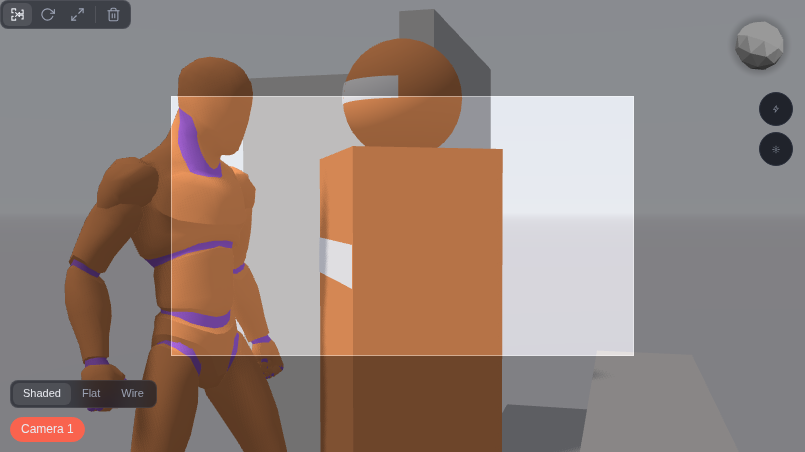
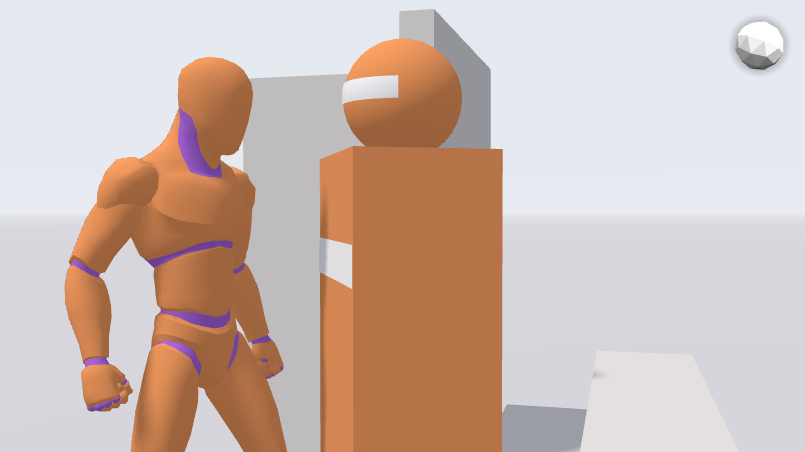
r12 step 1: pixel-oracle m1/m5 RESOLVED — the r11 'lens tonemap divergence' was a CAPTURE ARTIFACT (Chrome compositor present freezes for the WebGL canvas once the cameras view activates under headless SwiftShader: frame counter increments, forced-render backbuffer holds the correct lens image, page

diff --git a/scripts/pixel_oracle/lens_forensics.py b/scripts/pixel_oracle/lens_forensics.py
@@ -1,0 +1,93 @@
+#!/usr/bin/env python3
+"""lens_forensics.py — discriminate the m1/m5 lens divergence hypotheses from pixels.
+
+Hypotheses:
+  H1 DOM veil / additive overlay:  live = a*ours + b, a<1, b>0
+  H2 exposure multiplier:          live = a*ours, a~1.39, b~0
+  H3 tonemap/gamma curve:          live = ours^g (per-channel power law)
+  H4 spatial overlay (rect UI):    ratio modes cluster in rectangular bboxes
+"""
+import numpy as np
+from PIL import Image
+import os, sys
+
+HERE = os.path.dirname(os.path.abspath(__file__))
+
+def load(p):
+    return np.asarray(Image.open(p).convert("RGB"), dtype=np.float64)
+
+def fit_linear(ours, live):
+    # least squares over all pixels(+channels): live = a*ours + b
+    x = ours.reshape(-1); y = live.reshape(-1)
+    a, b = np.polyfit(x.ravel(), y.ravel(), 1)
+    resid = y.ravel() - (a * x.ravel() + b)
+    return a, b, np.abs(resid).mean()
+
+def fit_power(ours, live):
+    # live = ours^g  =>  log(live) = g*log(ours), skip saturated/dark
+    m = (ours > 8) & (ours < 250) & (live > 8) & (live < 250)
+    if m.sum() < 1000: return None, None
+    g = np.polyfit(np.log(ours[m]), np.log(live[m]), 1)[0]
+    pred = np.clip(ours, 0, 255) ** g
+    return g, np.abs(pred - np.clip(live, 0, 255))[m].mean()
+
+def lum(img):
+    return img.mean(axis=2)
+
+def ratio_modes(ours, live):
+    lo = lum(ours); ll = lum(live)
+    m = lo > 20  # avoid divide noise
+    r = np.zeros_like(lo); r[m] = ll[m] / lo[m]
+    return r, m
+
+def report(case):
+    live = load(os.path.join(HERE, "golden", f"{case}_live.png"))
+    ours = load(os.path.join(HERE, "out", f"ours_{case}.png"))
+    print(f"\n===== {case}  live{live.shape[1]}x{live.shape[0]} ours{ours.shape[1]}x{ours.shape[0]} =====")
+    h = min(live.shape[0], ours.shape[0]); w = min(live.shape[1], ours.shape[1])
+    live = live[:h, :w]; ours = ours[:h, :w]
+    lo, ll = lum(ours), lum(live)
+    print(f"ours  lum: min {lo.min():.0f} mean {lo.mean():.1f} max {lo.max():.0f}  px<30: {(lo<30).mean()*100:.2f}%")
+    print(f"live  lum: min {ll.min():.0f} mean {ll.mean():.1f} max {ll.max():.0f}  px<30: {(ll<30).mean()*100:.2f}%  sat: {(ll>253).mean()*100:.2f}%")
+    a, b, res = fit_linear(ours, live)
+    print(f"H1/H2 linear fit: live = {a:.4f}*ours + {b:.2f}   mean|resid| {res:.2f}")
+    g, gres = fit_power(ours, live)
+    if g: print(f"H3 power fit: live = ours^{g:.4f}   mean|resid| {gres:.2f}")
+
+    r, m = ratio_modes(ours, live)
+    if not m.any(): return
+    # histogram of ratio
+    hist, edges = np.histogram(r[m], bins=32, range=(0.5, 2.5))
+    top = np.argsort(hist)[::-1][:6]
+    print("ratio histogram peaks:")
+    for i in top:
+        if hist[i] == 0: continue
+        print(f"  r {edges[i]:.2f}-{edges[i+1]:.2f}: {hist[i]} px ({hist[i]/m.sum()*100:.1f}%)")
+    # spatial map of the two hypothesized modes
+    for name, sel in [("r~1.0", (r > 0.92) & (r < 1.10) & m),
+                      ("r~1.67", (r > 1.55) & (r < 1.80) & m),
+                      ("r>2.0", (r > 2.0) & m)]:
+        if sel.sum() < 100:
+            print(f"  mode {name}: {sel.sum()} px (skip)"); continue
+        ys, xs = np.nonzero(sel)
+        x0, x1, y0, y1 = xs.min(), xs.max(), ys.min(), ys.max()
+        # detect rectangularity: fill ratio of the bbox
+        fill = sel[y0:y1+1, x0:x1+1].mean()
+        print(f"  mode {name}: {sel.sum()} px bbox x{x0}-{x1} y{y0}-{y1} fill {fill*100:.0f}%  mean-ours-lum {lo[sel].mean():.0f}")
+    # column/row profiles of the ratio (detect veil bands)
+    rm = np.where(m, r, np.nan)
+    with np.errstate(invalid="ignore"):
+        colmean = np.nanmean(rm, axis=0)
+        rowmean = np.nanmean(rm, axis=1)
+    colmean = np.nan_to_num(colmean); rowmean = np.nan_to_num(rowmean)
+    print(f"  ratio col profile: left-edge {colmean[:40].mean():.2f} mid {colmean[w//2-40:w//2+40].mean():.2f} right-edge {colmean[-40:].mean():.2f}")
+    print(f"  ratio row profile: top {rowmean[:40].mean():.2f} mid {rowmean[h//2-40:h//2+40].mean():.2f} bottom {rowmean[-40:].mean():.2f}")
+
+    # channel-wise: a pure luma op preserves channel ratios; a tonemap may not
+    for ch, nm in enumerate("RGB"):
+        ac, bc, _ = fit_linear(ours[:, :, ch], live[:, :, ch])
+        print(f"  ch {nm}: a {ac:.4f} b {bc:.2f}")
+
+if __name__ == "__main__":
+    for case in (sys.argv[1:] or ["m1_lens", "m5_cam_path"]):
+        report(case)

diff --git a/scripts/pixel_oracle/lens_smooth.py b/scripts/pixel_oracle/lens_smooth.py
@@ -1,0 +1,67 @@
+#!/usr/bin/env python3
+"""lens_smooth.py — is live-ours a smooth screen-space field (overlay) or content noise (tonemap)?"""
+import numpy as np
+from PIL import Image
+import os
+
+HERE = os.path.dirname(os.path.abspath(__file__))
+
+def load(p):
+    return np.asarray(Image.open(p).convert("RGB"), dtype=np.float64)
+
+def smoothness(D, tag):
+    # high-frequency energy: |D - blur(D)| vs |D - mean|
+    h, w = D.shape
+    # 5x5 box blur
+    k = 2
+    P = np.pad(D, k, mode="edge")
+    blur = np.zeros_like(D)
+    for dy in range(-k, k + 1):
+        for dx in range(-k, k + 1):
+            blur += P[k + dy : k + dy + h, k + dx : k + dx + w]
+    blur /= 25
+    hf = np.abs(D - blur).mean()
+    tot = np.abs(D - D.mean()).mean()
+    print(f"  {tag}: mean {D.mean():.1f}  hf-energy {hf:.1f}  total-var {tot:.1f}  smoothness {1-hf/max(tot,1e-9):.2f}")
+    return 1 - hf / max(tot, 1e-9)
+
+def plane_fit(D, tag):
+    h, w = D.shape
+    yy, xx = np.mgrid[0:h, 0:w]
+    A = np.stack([xx.ravel()/w, yy.ravel()/h, (xx.ravel()/w)**2, (yy.ravel()/h)**2, xx.ravel()*yy.ravel()/(w*h), np.ones(h*w)], 1)
+    coef, *_ = np.linalg.lstsq(A, D.ravel(), rcond=None)
+    pred = (A @ coef).reshape(h, w)
+    resid = np.abs(D - pred).mean()
+    print(f"  {tag}: quadric coeffs x {coef[0]:.1f} y {coef[1]:.1f} x2 {coef[2]:.1f} y2 {coef[3]:.1f} xy {coef[4]:.1f} c {coef[5]:.1f}  resid {resid:.1f} (D mean {D.mean():.1f})")
+
+def grid_report(D, tag, n=6):
+    h, w = D.shape
+    print(f"  {tag} {n}x{n} grid of mean D:")
+    for gy in range(n):
+        row = []
+        for gx in range(n):
+            cell = D[gy*h//n:(gy+1)*h//n, gx*w//n:(gx+1)*w//n]
+            row.append(f"{cell.mean():6.0f}")
+        print("    " + " ".join(row))
+
+for case in ("m1_lens", "m5_cam_path"):
+    live = load(os.path.join(HERE, "golden", f"{case}_live.png"))
+    ours = load(os.path.join(HERE, "out", f"ours_{case}.png"))
+    h = min(live.shape[0], ours.shape[0]); w = min(live.shape[1], ours.shape[1])
+    live = live[:h, :w]; ours = ours[:h, :w]
+    D = live.mean(2) - ours.mean(2)
+    print(f"\n===== {case} =====")
+    smoothness(D, "D=live-ours")
+    plane_fit(D, "D quadric")
+    grid_report(D, "D")
+    # per-channel D grid for channel-dependence (white veil: equal; colored veil: not)
+    for ch, nm in enumerate("RGB"):
+        grid_report(live[:, :, ch] - ours[:, :, ch], f"D_{nm}", 3)
+    # save visualizations
+    dn = np.clip(D + 128, 0, 255).astype(np.uint8)
+    Image.fromarray(dn).save(os.path.join(HERE, "out", f"tmp_D_{case}.png"))
+    lo = ours.mean(2); ll = live.mean(2)
+    m = lo > 20
+    r = np.zeros_like(lo); r[m] = np.clip(ll[m] / lo[m] * 63.75, 0, 255)
+    Image.fromarray(r.astype(np.uint8)).save(os.path.join(HERE, "out", f"tmp_ratio_{case}.png"))
+print("\nwrote out/tmp_D_*.png + out/tmp_ratio_*.png (D shifted +128, ratio scaled 2->255)")

diff --git a/scripts/pixel_oracle/bb.py b/scripts/pixel_oracle/bb.py
@@ -1,0 +1,66 @@
+#!/usr/bin/env python3
+"""bb.py — backbuffer capture for the pixel-oracle harness.
+
+WHY: Chrome's compositor present path freezes for the WebGL canvas once the
+editor enters the through-the-lens (cameras) view under headless SwiftShader
+(reproduced r11 + r12: the page screenshot keeps returning the LAST PRE-
+LENS frame, byte-identical across sessions, while renderer.info.render.frame
+keeps incrementing and the forced-render backbuffer holds the correct lens
+image). DOM overlays still composite; the canvas texture does not update.
+
+The backbuffer is the ground truth the renderer actually draws. With
+preserveDrawingBuffer=false the buffer only survives within the JS task that
+rendered it, so capture = per eval: force app.renderFrame() → readPixels N
+rows → base64 → chunk out through ab.eval_js. The rest state is deterministic
+(seek-pinned poses, no autoplay), so consecutive forced renders are identical.
+
+API:
+  capture_png(session, path, w=805, h=452, rows_per_eval=24)  → exact PNG
+"""
+import base64
+import io
+import time
+
+import ab
+
+_ROWS_HDR = """(()=>{
+const a=window.__app;
+a.renderFrame();
+const gl=a.renderer.getContext();
+const w=gl.drawingBufferWidth,h=gl.drawingBufferHeight;
+const row=new Uint8Array(w*4);
+const out=[];
+const y0=%d, y1=%d;
+for(let y=y0;y<y1;y++){
+  gl.readPixels(0,h-1-y,w,1,gl.RGBA,gl.UNSIGNED_BYTE,row);
+  let s='';
+  for(let i=0;i<w*4;i+=4){ s+=String.fromCharCode(row[i],row[i+1],row[i+2]); }
+  out.push(btoa(s));
+}
+return out.join('|');
+})()"""
+
+
+def _b64_decode_rows(b64str):
+    raw = base64.b64decode(b64str)
+    return raw  # rgb bytes (3 per px)
+
+
+def capture_png(session, path, w=805, h=452, rows_per_eval=24, timeout=120):
+    """Force-render + read the backbuffer top-to-bottom, save an exact PNG."""
+    from PIL import Image
+    rows = []
+    t0 = time.time()
+    for y0 in range(0, h, rows_per_eval):
+        y1 = min(y0 + rows_per_eval, h)
+        r = ab.eval_js(session, _ROWS_HDR % (y0, y1), timeout=timeout)
+        parts = str(r).split("|")
+        for b64 in parts:
+            rows.append(_b64_decode_rows(b64))
+    buf = b"".join(rows)
+    expect = w * h * 3
+    if len(buf) != expect:
+        raise RuntimeError(f"backbuffer capture size {len(buf)} != {expect}")
+    img = Image.frombytes("RGB", (w, h), buf)
+    img.save(path)
+    return time.time() - t0

diff --git a/scripts/pixel_oracle/ours.py b/scripts/pixel_oracle/ours.py
@@ -22,6 +22,7 @@ import time
 from PIL import Image
 
 import ab
+import bb
 
 OURS_BASE = "http://localhost:3000/editor/index.html"
 # verified geometry (r11): scene-view chrome = 264px right + 88 top + 176 bottom
@@ -105,14 +106,20 @@ class OursSession:
                 raise OursError(f"cameras view failed: {r}")
             time.sleep(1.5)
         time.sleep(1.2)
-        # --- canvas rect assert + screenshot + crop
+        # --- canvas rect assert + capture
         x, y, w, h = self.canvas_rect()
         if (x, y, w, h) != want:
             raise OursError(f"canvas rect {(x, y, w, h)} != expected {want} "
                             f"(viewport {viewport})")
+        # r12: the compositor present path FREEZES for the WebGL canvas once
+        # the cameras (lens) view activates under headless SwiftShader — the
+        # page screenshot keeps returning the last pre-lens frame (reproduced
+        # r11 + r12; the r11 m1/m5 "divergence" was this artifact). Capture the
+        # canvas from the BACKBUFFER instead (force renderFrame + readPixels
+        # per chunk; deterministic at rest). Full screenshot kept for debug.
         full = str(out_path).replace(".png", "_full.png")
         ab.screenshot(self.session, full)
-        Image.open(full).convert("RGB").crop((x, y, x + w, y + h)).save(out_path)
+        bb.capture_png(self.session, out_path, w=w, h=h)
         return out_path
 
     def close(self):

diff --git a/scripts/pixel_oracle/README.md b/scripts/pixel_oracle/README.md
@@ -59,17 +59,23 @@ python3 scripts/pixel_oracle/fixtures.py --sync              # regenerate varian
 | case | fixture | t | view | live scene | status |
 |---|---|---|---|---|---|
 | m2_default | `samples/live_oracle_r11_base.json` | 2.51 | scene | base Scene 1 | **GREEN 99.30 / 0.354** |
-| m1_lens | base | 5.0 (end-of-orbit) | cameras (lens) | base | **GOLDEN r11-3a, FAIL 56.27/32.72** — lens-view divergence (see gotchas) |
+| m1_lens | base | 5.0 (end-of-orbit) | cameras (lens) | base | **GREEN r12 99.12 %≤8 / mean 0.410** (r11 FAIL 56.27/32.72 was the capture artifact — see gotcha) |
 | m3_light_golden | `oracle_r11/light_golden.json` | 2.51 | scene | oracle row PATCHed | **GREEN r11-3a 98.72 %≤8 / mean 0.996** (marginal vs 1.0) |
 | m3_light_dusk | `oracle_r11/light_dusk.json` | 2.51 | scene | oracle row PATCHed | **r11-3b FAIL (marginal) 97.18 %≤8 / mean 1.630** — horizon-band sun-glow drift |
 | m3_light_night | `oracle_r11/light_night.json` | 2.51 | scene | oracle row PATCHed | **GREEN r11-3b 99.30 %≤8 / mean 0.818** |
 | m4_finish | base | 2.51 | scene, finish ON | base | **GREEN r11-3b 99.16 %≤8 / mean 0.440** |
-| m5_cam_path | `oracle_r11/cam_path.json` | 4.0 | cameras (lens) | oracle row PATCHed | **GOLDEN r11-3b, FAIL 32.72/60.99** — same lens-path divergence as m1 |
+| m5_cam_path | `oracle_r11/cam_path.json` | 4.0 | cameras (lens) | oracle row PATCHed | **GREEN r12 99.09 %≤8 / mean 0.414** (r11 FAIL was the same artifact) |
 
-Full matrix r11-3b: 4/7 PASS (m2, m3_golden, m3_night, m4_finish); m1_lens +
-m5_cam_path share the OPEN lens-path divergence; m3_light_dusk is a marginal
-FAIL (mean 1.63, %≤8 97.18 — passes %≤8, misses mean≤1.0 on the horizon
-sun-glow band). All 7 cases now have committed goldens.
+Full matrix r12 (backbuffer capture): **6/7 PASS** — m1_lens 0.410/99.12 and
+m5_cam_path 0.414/99.09 now GREEN (residual blobs = the navball pad + the
+live's DOM 'Camera 1' label — the known r9 divergences); m3_light_dusk is the
+only FAIL (marginal: mean 1.63, %≤8 97.18 — the horizon sun-glow band).
+All 7 cases have committed goldens.
+
+r12 capture-method note: the lens cases (and any ours-side capture) must go
+through `bb.py` (backbuffer readPixels) — see the gotcha below. The r11
+ours-lens captures compared the live feed against a STALE pre-lens editor
+frame; the "flat-bright 1.39x tonemap" never existed.
 
 ### Lens-case geometry (M1/M5)
 
@@ -191,22 +197,22 @@ r11; asserted at runtime). `--cameras` diff mode applies **no UI masks**
 - **Lens feed convergence** — the cameras feed is its own render target; it
   needs the same screenshot-pair convergence as the scene view (added to
   cameras_capture; the feed is stably 805x452 across layout variants).
-- **m1 lens divergence (OPEN)** — the r11-3a live lens at t=5.0 is a flat-
-  bright image (no px < 30 lum, min ~170, 0.18% saturated, mean 190) while
-  ours renders full contrast (mean 134, deep darks + clipped spots); pair
-  diff mean 56.27, %≤8 32.72, one whole-frame blob. NOT a geometry
-  mismatch: mid-frame structure aligns and the live/ours per-pixel ratio is
-  bimodal 1.0/1.67 (a tonemap/exposure-style divergence in the through-
-  the-lens path — R9 measured 97.81/1.3, so one side changed since; both
-  captures are deterministic, live reproducible byte-stable). Editor-side
-  fix needed; harness captures are correct.
-- **m5 cam-path = the SAME lens divergence (OPEN, r11-3b)** — the cam-path
-  case (t=4.0 through-the-lens) reproduces the m1 signature exactly: %≤8
-  32.72 (identical), one whole-frame blob, live flat-bright (mean 213,
-  min 58) vs ours full contrast (mean 153, min 32), live/ours lum-ratio
-  bimodal 1.0/1.67 (233k px at ~1.67, 121k at ~1.0). The cam-path MOTION
-  works (feed not empty: 2476 unique, std 32) — the divergence is the lens
-  path, not the path eval. Same editor-side fix as m1.
+- **r12 RESOLVED: the r11 m1/m5 "lens tonemap divergence" was a CAPTURE
+  ARTIFACT, not a render divergence** — Chrome's compositor present path for
+  the WebGL canvas FREEZES once the cameras (lens) view activates under
+  headless SwiftShader: renderer.info.render.frame keeps incrementing and the
+  forced-render backbuffer holds the correct lens image, but the page
+  screenshot returns the LAST PRE-LENS FRAME forever (byte-identical across
+  sessions; resize/transform/guide-hide do not unstick it; DOM overlays still
+  composite). All r11 lens-case forensics ("live flat-bright 1.39x, ratio
+  bimodal 1.0/1.67") were artifacts of diffing the live feed against that
+  stale editor frame. Fix = `bb.py`: per eval force `app.renderFrame()` then
+  readPixels row-chunks → base64 → PNG (deterministic at rest; the backbuffer
+  only survives within the render task — preserveDrawingBuffer=false).
+  ours.py now captures EVERY case through bb.py (full screenshot kept as
+  `*_full.png` debug). Diagnostics kept in lens_forensics.py / lens_smooth.py.
+- **m5 cam-path (r12)** — PASS 0.414/99.09 with the backbuffer capture: the
+  cam-path eval + lens feed are exact; residual = navball pad + label, as m1.
 - **m3 dusk horizon band (r11-3b)** — dusk (az250 el-4) is a marginal FAIL:
   %≤8 97.18 passes but masked mean 1.63 misses ≤1.0; top blob 6317px
   bbox x179-900 y40-52 = the horizon/sun-glow strip (the el=-4 sun sits on
